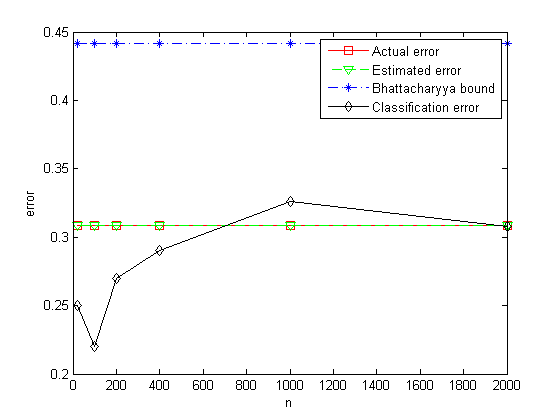
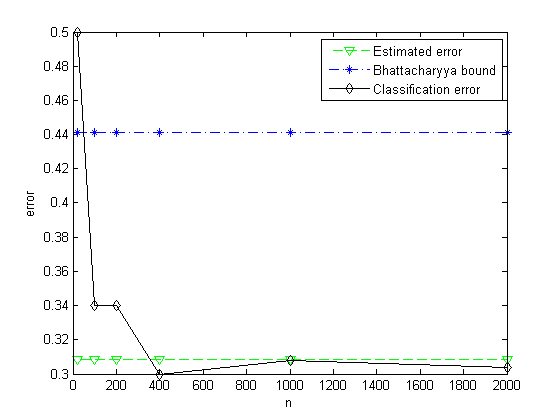
CH2_7

diff --git a/CH2_7.m b/CH2_7.m
@@ -1,5 +1,5 @@
-function [Aerror, Eerror, Bbound, Cerror] = CH2_7(u1, sigma1, u2, sigma2, P1, P2)
-% function [Aerror, Eerror, Bbound, Cerror] = CH2_7(u1, sigma1, u2, sigma2, P1, P2)
+function [Eerror, Bbound, Cerror] = CH2_7(u1, sigma1, u2, sigma2, P1, P2)
+% function [Eerror, Bbound, Cerror] = CH2_7(u1, sigma1, u2, sigma2, P1, P2)
 % Calculate the Bhattacharyya bound, actual error, estimated error and a
 % series of classification error of two Gauss distribution.
 % Inputs:
@@ -11,35 +11,47 @@ function [Aerror, Eerror, Bbound, Cerror] = CH2_7(u1, sigma1, u2, sigma2, P1, P2
 %   P2     - Prior probability of class2
 %
 % Outputs:
-%   Aerror - Actual error 
 %   Eerror - Estimated error
 %   Bbound - Bhattacharyya bound
 %   Cerror - Classification error
 
+%% calculate the curve intersection point
+eq1 = ['y = ' num2str(P1) '*1/sqrt(2*pi*' num2str(sigma1) ')*exp(-(x - '  num2str(u1) ')^2/(2*' num2str(sigma1) '))'];
+eq2 = ['y = ' num2str(P2) '*1/sqrt(2*pi*' num2str(sigma2) ')*exp(-(x - '  num2str(u2) ')^2/(2*' num2str(sigma2) '))'];
+[inter_x, inter_y] = solve(eq1, eq2);
+inter_x = double(inter_x);
+inter_y = double(inter_y);
+
 %% plot Gauss distribution
 % Gauss distribution
 x = (-5:0.1:5)';
-y1 = gaussmf(x, [sigma1 u1]);
-y2 = gaussmf(x, [sigma2 u2]);
+y1 = P1*1/sqrt(2*pi*sigma1)*exp(-(x - u1).^2/(2*sigma1));
+y2 = P2*1/sqrt(2*pi*sigma2)*exp(-(x - u2).^2/(2*sigma2));
 plot(x, [y1 y2]);
-% boundary line
-l = zeros(11,1);
-y3 = 0:0.1:1;
 hold on;
-plot(l, y3, '--r');
+plot(inter_x, inter_y, 'rx', 'LineWidth', 2, 'MarkerSize', 10);
+for i = 1:size(inter_x, 1)
+    text(inter_x(i) + 0.2, inter_y(i), ['\leftarrow (' num2str(inter_x(i)) ', ' ...
+        num2str(inter_y(i)) ')']);
+end
 xlabel('x'), ylabel('y');
-legend('N(-0.5, 1)', 'N(0.5, 1)', 'boundary line');
+legend('N(-0.5, 1)', 'N(0.5, 1)', 'intersection point');
 
 %% Bhattacharyya bound
 Bbound = Bhattacharyya(u1, sigma1, u2, sigma2, P1);
 
-%% actual error using error function
-Aerror = (1 - erf(sqrt(2)/4))/2;
-
 %% estimated error using numerical integration
 % the intersection area of two Gauss distribution means error
 syms x;
-Eerror = (1- double(int(1/sqrt(2*pi*sigma1)*exp(-x^2/(2*sigma1)), -0.5, 0.5)))/2;
+if size(inter_x, 1) == 1
+    Eerror = double(int(P1*1/sqrt(2*pi*sigma1)*exp(-(x - u1)^2/(2*sigma1)), inter_x, Inf)) + ...
+        double(int(P2*1/sqrt(2*pi*sigma2)*exp(-(x - u2)^2/(2*sigma2)), -Inf, inter_x));
+else if size(inter_x, 1) == 2
+    Eerror = double(int(P1*1/sqrt(2*pi*sigma1)*exp(-(x - u1)^2/(2*sigma1)), inter_x(1), inter_x(2))) + ...
+        double(int(P2*1/sqrt(2*pi*sigma2)*exp(-(x - u2)^2/(2*sigma2)), -Inf, inter_x(1))) + ...
+        double(int(P2*1/sqrt(2*pi*sigma2)*exp(-(x - u2)^2/(2*sigma2)), inter_x(2), Inf));  
+    end
+end
 
 %% classification error
 m = 1;
@@ -65,10 +77,10 @@ for n = vec
     m = m + 1;
 end
 figure;
-plot(2*vec, Aerror*ones(1, size(vec, 2)), '-rs', 2*vec, Eerror*ones(1, size(vec, 2)), '--gv', ...
+plot(2*vec, Eerror*ones(1, size(vec, 2)), '--gv', ...
     2*vec, Bbound*ones(1, size(vec, 2)), '-.b*', 2*vec, Cerror, '-kd');
 xlabel('n'), ylabel('error');
-legend('Actual error', 'Estimated error', 'Bhattacharyya bound', 'Classification error');
+legend('Estimated error', 'Bhattacharyya bound', 'Classification error');
 end
 
 

diff --git a/CH2_7_test.m b/CH2_7_test.m
@@ -4,4 +4,4 @@ u2 = 0.5;
 sigma2 = 1;
 P1 = 0.5;
 P2 = 0.5;
-[Aerror, Eerror, Bbound, Cerror] = CH2_7(u1, sigma1, u2, sigma2, P1, P2);
+[Eerror, Bbound, Cerror] = CH2_7(u1, sigma1, u2, sigma2, P1, P2);
